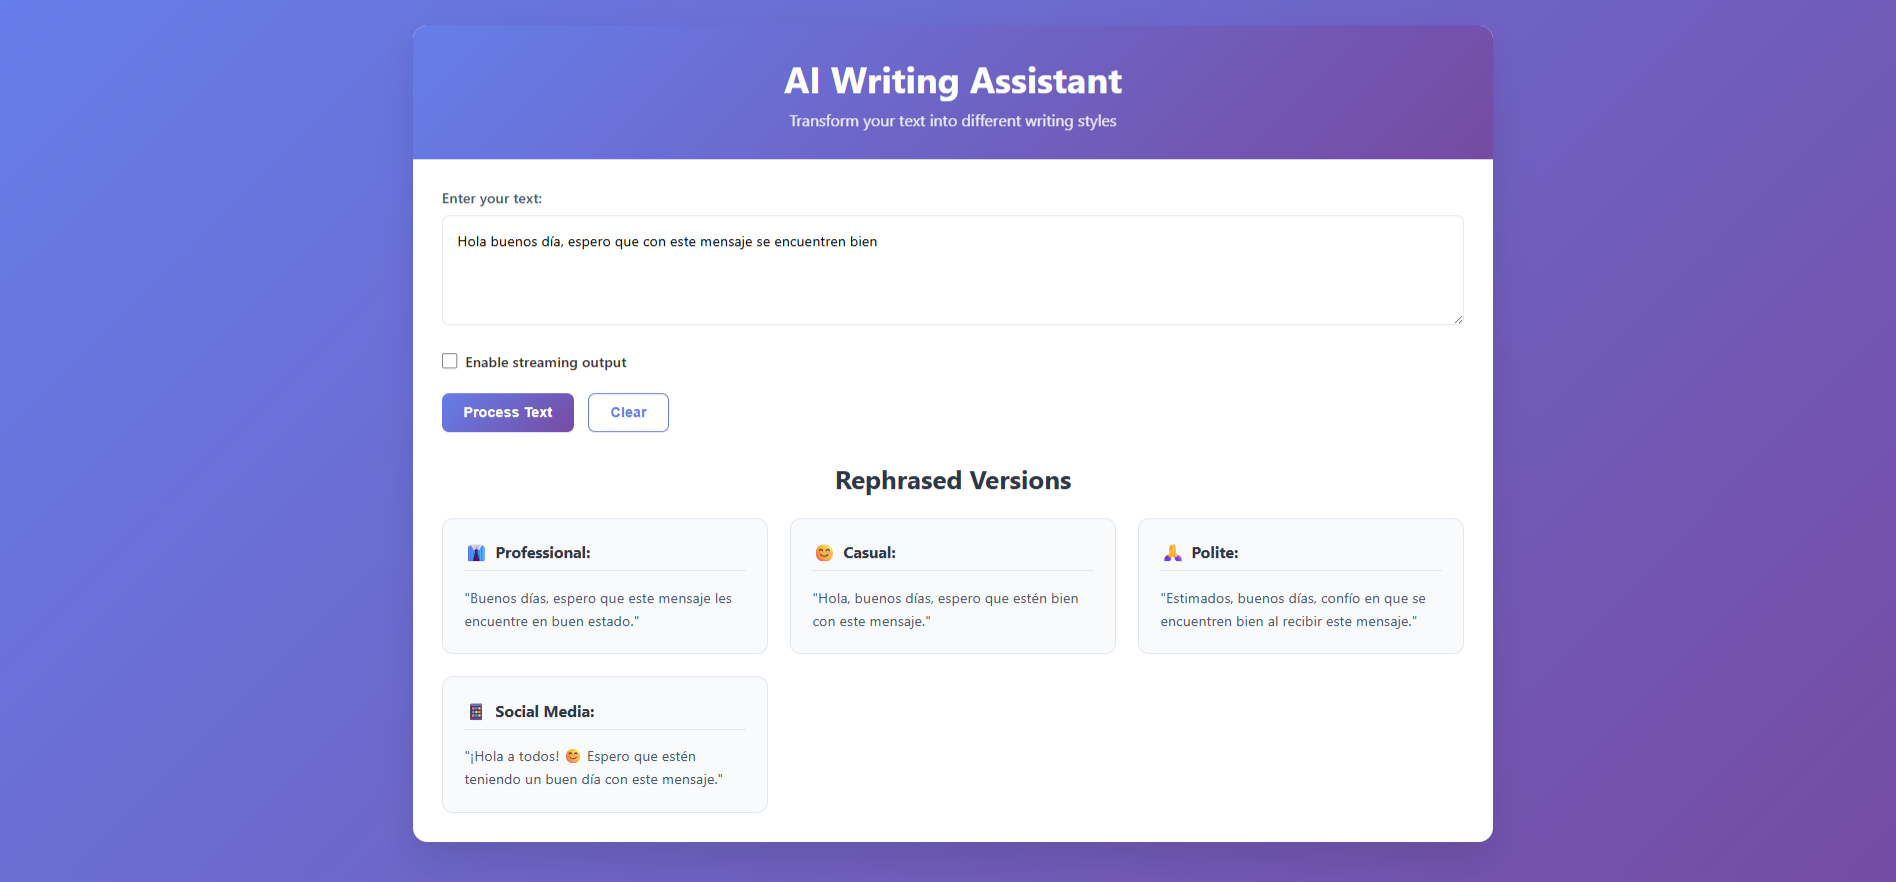
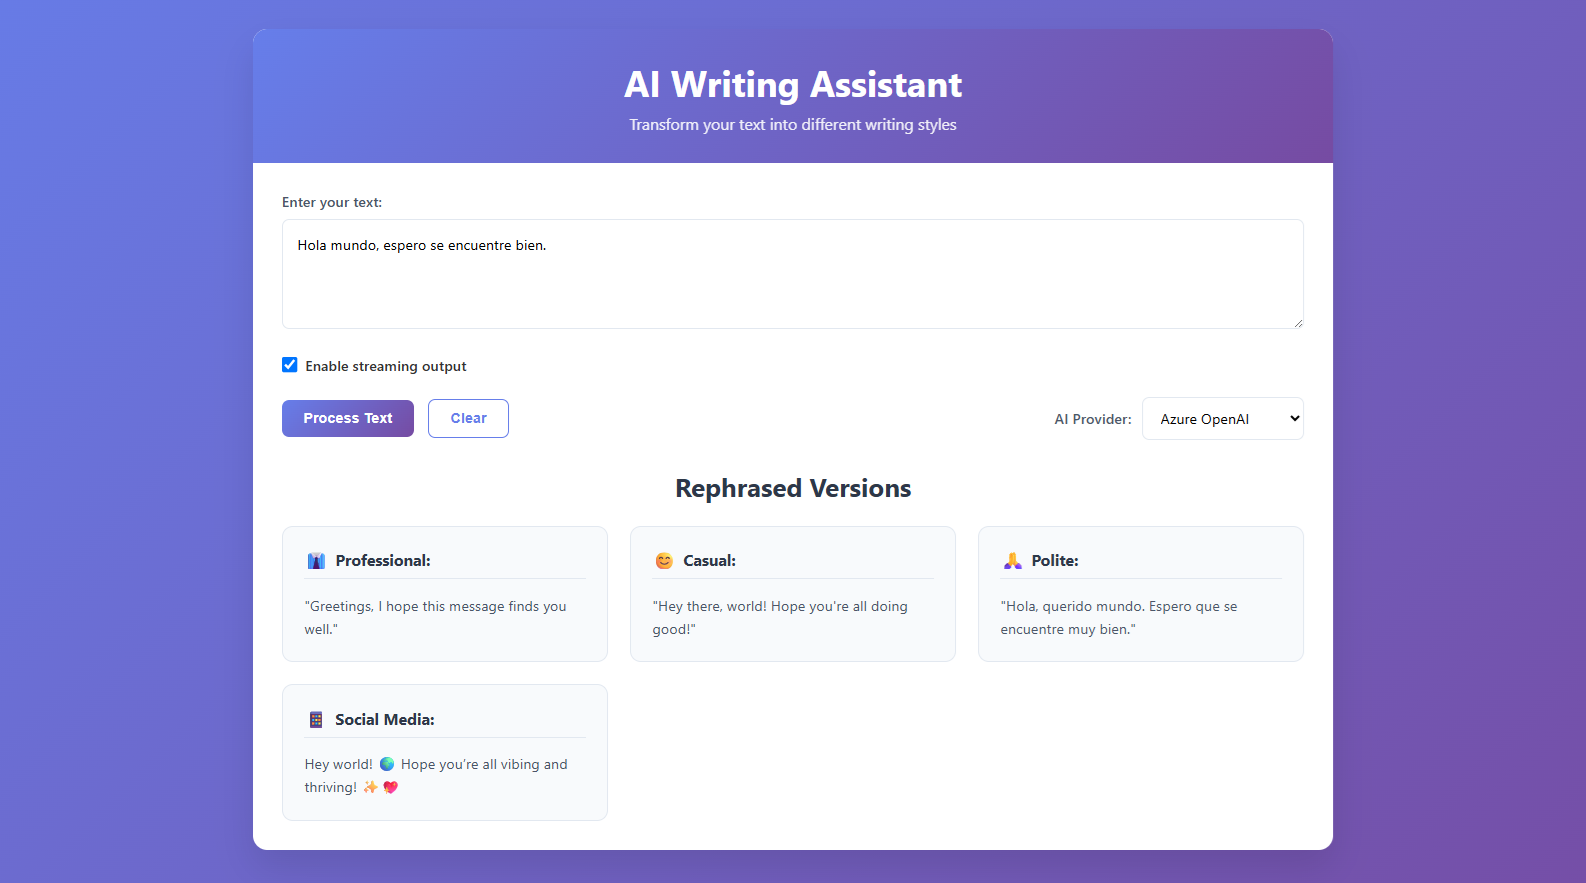
Update readme

diff --git a/README.md b/README.md
@@ -40,12 +40,16 @@ A full-stack application that uses OpenAI's GPT to rephrase text in different wr
 - Python 3.11+  
 - Node.js 16+  
 - Docker (opcional, pero recomendado para el backend)  
-- Variables de entorno de **Azure OpenAI** configuradas en `.env` en la carpeta **backend** (no incluidas en el repo):
+- Variables de entorno de **Azure OpenAI**, **Openai** y **Anthropic (Claude)** configuradas en `.env` en la carpeta **backend** (no incluidas en el repo):
 
 ```env
 AZURE_OPENAI_API_KEY=''
 AZURE_OPENAI_ENDPOINT=''
-AZURE_OPENAI_DEPLOYMENT=''
+AZURE_OPENAI_DEPLOYMENT='gpt-4o-mini'
+OPENAI_API_KEY = ''
+OPENAI_MODEL = 'gpt-4o-mini'
+ANTHROPIC_API_KEY = ''
+CLAUDE_MODEL = 'claude-sonnet-4-20250514'
 ```
 
 ---
@@ -57,18 +61,12 @@ AZURE_OPENAI_DEPLOYMENT=''
 git clone https://github.com/LxMera/writing_assistant.git
 ```
 
-### 2. Backend (FastAPI con Docker)
-Desde la raíz del proyecto:
+### 2. Backend, frontend and nginx
+Desde la raíz del proyecto (writing_assistant):
 
 ```bash
-docker build -t writing_assistant_backend ./backend
-docker run -d -p 8000:8000 --name writing_backend writing_assistant_backend
+docker compose up --build
 ```
-El backend quedará disponible en: http://localhost:8000/docs
-
-### 3. Frontend (React)
-Ir a la carpeta del frontend:
-
-```bash
-   git clone <repository-url>
-   cd writing_assistant/backend
+La aplicación quedará disponible en: http://localhost
+Inicialmente solicitará el usuario y contraseña, que, para este ejemplo práctico son: admin y admin123
+Una vez realizado el login se accederá a la interfaz, tal como se muestra en la imagen.
